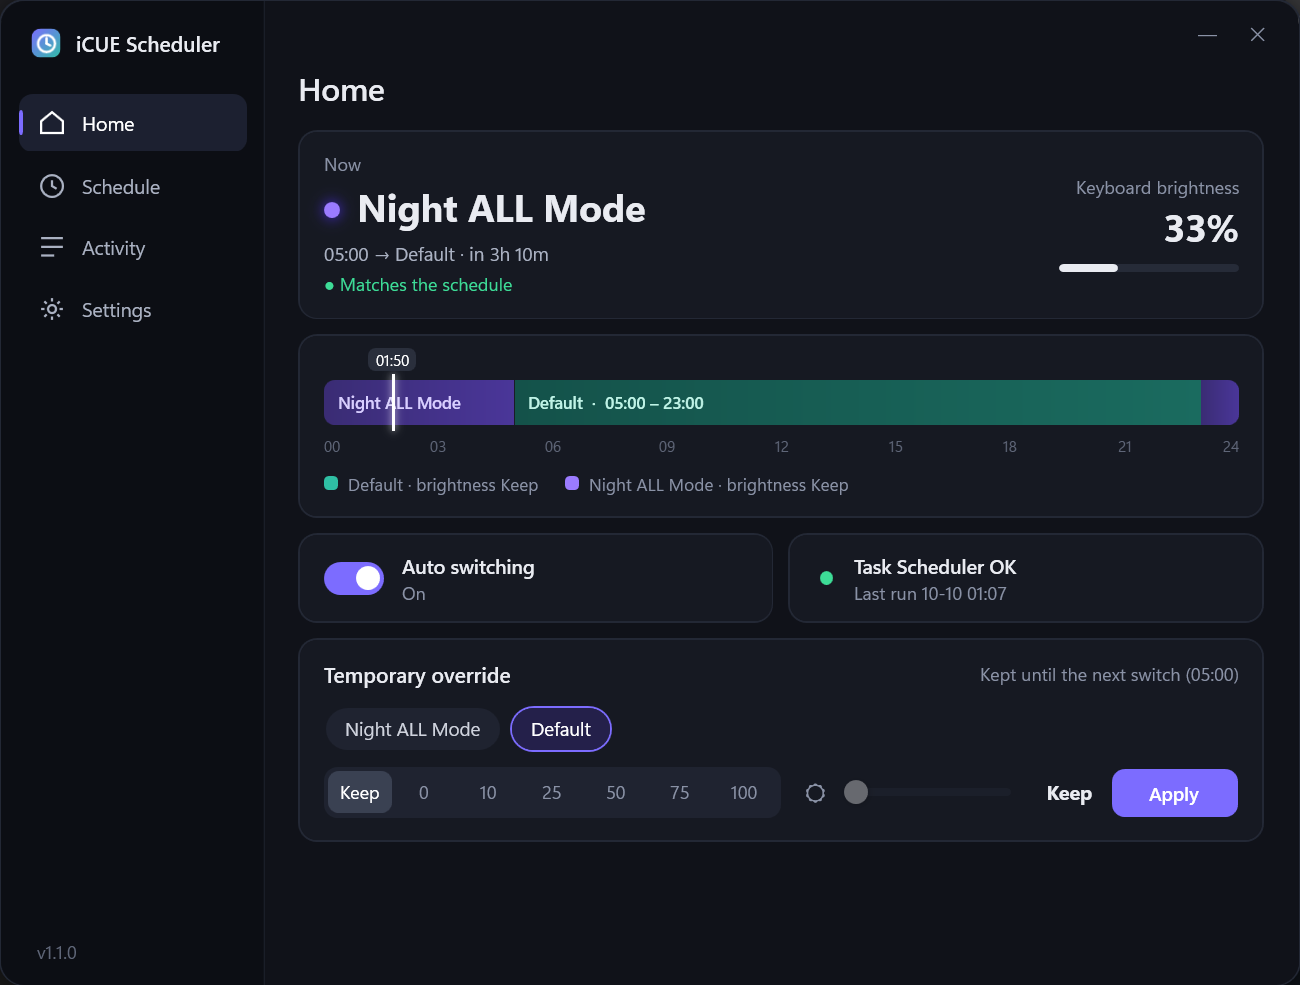
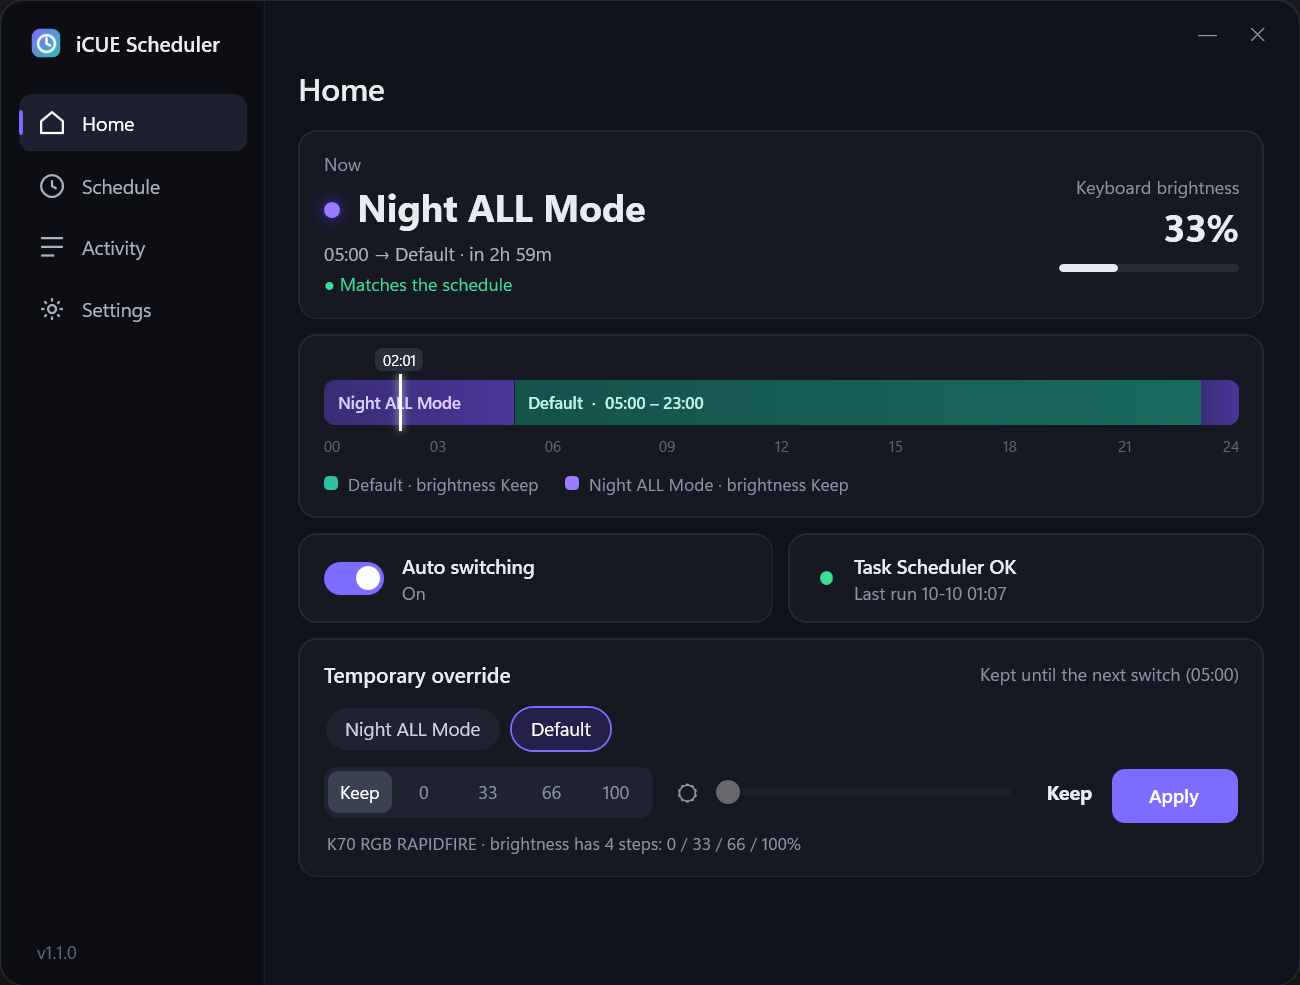
Brightness: 0 / 33 / 66 / 100 % steps with keyboard hint
- Presets and slider snap to the 4 steps iCUE uses for keyboards like the K70 RGB RAPIDFIRE
- Show the detected keyboard and its steps under every brightness control
- After applying, warn if iCUE stored a different brightness than requested
- README (EN/KO) and screenshots updated

Claude-Session: https://claude.ai/code/session_0196qR4AHnYfwbCAL9zm85v3

diff --git a/ui/MainWindow.xaml b/ui/MainWindow.xaml
@@ -84,7 +84,7 @@
                   <Grid>
                     <Grid.ColumnDefinitions><ColumnDefinition Width="*"/><ColumnDefinition Width="12"/><ColumnDefinition Width="Auto"/></Grid.ColumnDefinitions>
                     <ContentControl HorizontalContentAlignment="Stretch" x:Name="TempBright" VerticalAlignment="Center"/>
-                    <Button x:Name="BtnTemp" Grid.Column="2" Style="{StaticResource BtnPri}" MinWidth="86"/>
+                    <Button x:Name="BtnTemp" Grid.Column="2" Style="{StaticResource BtnPri}" MinWidth="86" VerticalAlignment="Top" Height="38"/>
                   </Grid>
                 </StackPanel>
               </Border>

diff --git a/README.md b/README.md
@@ -11,7 +11,7 @@ Windows only. Plain PowerShell + WPF, nothing to install.
 
 - **24-hour timeline.** See which profile runs when, with a marker for the current time.
 - **Time slots.** Add as many as you like. Each slot sets a profile and, optionally, keyboard brightness.
-- **Brightness presets and slider.** Keep / 0 / 10 / 25 / 50 / 75 / 100 %, or drag the slider to any value.
+- **Keyboard brightness.** Keep / 0 / 33 / 66 / 100 % buttons, plus a slider that snaps to the same steps. The app shows which keyboard it found and the steps it supports.
 - **Temporary override.** Use another profile or brightness now; the schedule takes over again at the next switch.
 - **Leaves your manual changes alone.** Each slot is applied once, so changes you make in iCUE stay until the next slot starts.
 - **Catches up** after logon or waking from sleep, if a switch was missed.
@@ -79,7 +79,7 @@ It applies the current slot only if it has not been applied in that slot yet.
 ```powershell
 .\Switch-iCUEProfile.ps1                                        # what the scheduled task runs
 .\Switch-iCUEProfile.ps1 -Force                                 # apply the current slot now
-.\Switch-iCUEProfile.ps1 -ProfileName "Gaming" -Brightness 75   # temporary override (-Brightness keep = don't change)
+.\Switch-iCUEProfile.ps1 -ProfileName "Gaming" -Brightness 66   # temporary override (-Brightness keep = don't change)
 ```
 
 ## Files
@@ -103,7 +103,7 @@ It applies the current slot only if it has not been applied in that slot yet.
 ## Notes and limitations
 
 - Every switch restarts iCUE.
-- **Brightness steps depend on your device.** iCUE rounds the value to what the device supports. A K70 RGB RAPIDFIRE, for example, only has 0 / 33 / 66 / 100 %, so 10 → 0, 25 → 33 and 50 → 66. The Home tab always shows the value iCUE actually uses.
+- **Brightness has 4 steps: 0 / 33 / 66 / 100 %.** That is what iCUE uses for keyboards such as the K70 RGB RAPIDFIRE (10 % would become 0 %, 50 % would become 66 %), so the buttons and slider stick to those steps. The detected keyboard is named under the brightness controls. If iCUE ends up storing a different value than requested, the app tells you after applying.
 - Brightness uses iCUE's device brightness setting and is applied to every device that has one.
 - It reads and edits iCUE's own settings files, which are not documented. A future iCUE update could change them and break this tool.
 - Profile names must match iCUE exactly. The app warns you when a name is not found.
